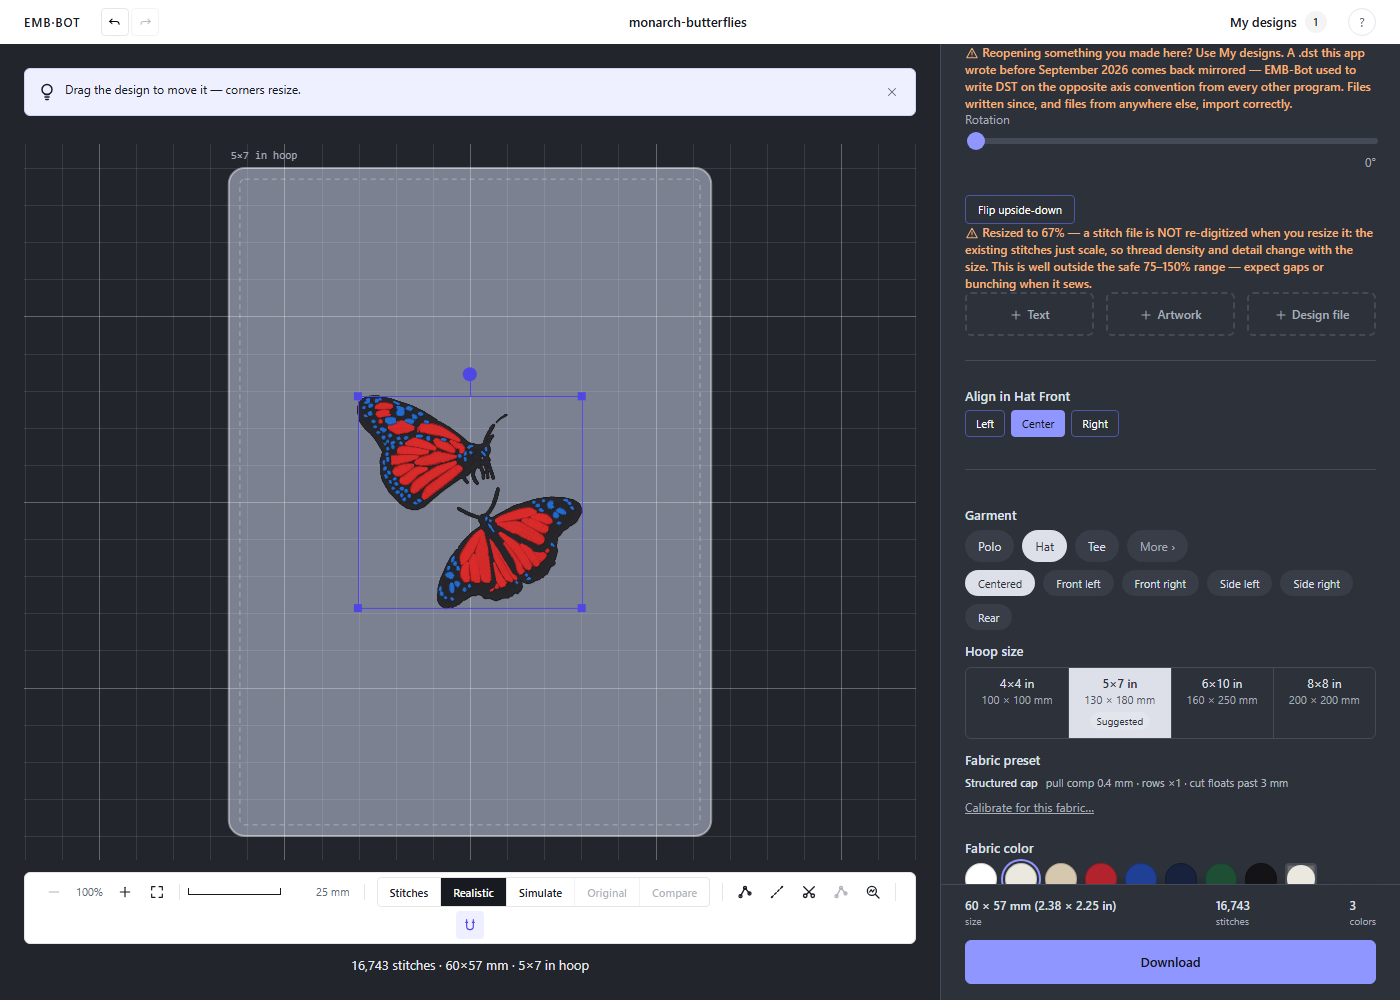
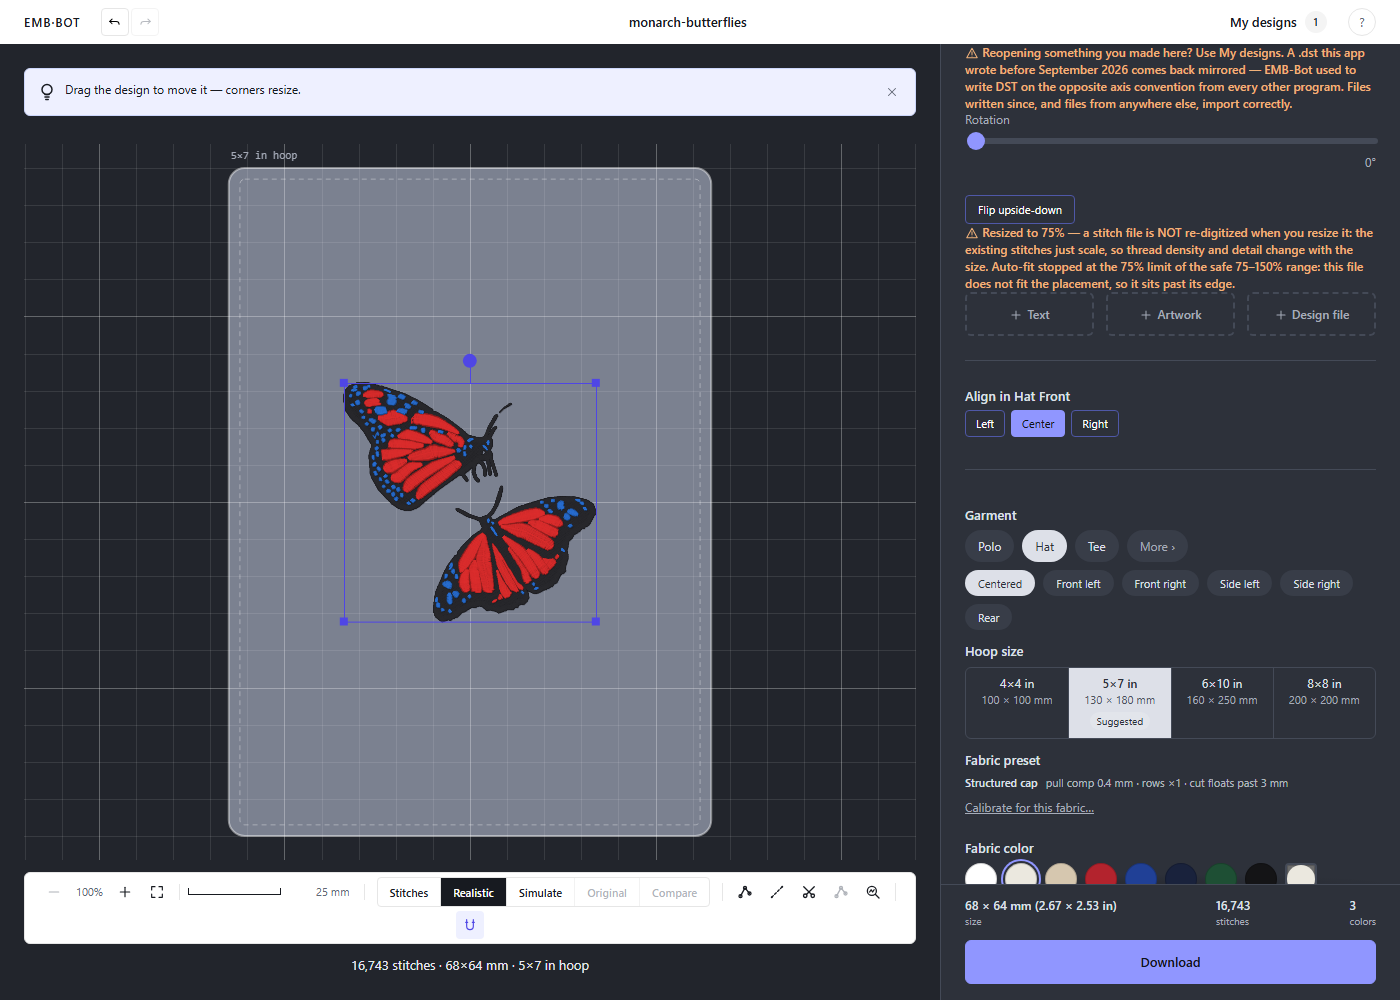
Auto-fit stops a stitch file at the 75% edge and says so (Kent 2026-11-14)
autoScaleRange in buildImportedDesign, passed only for stitch files; typed width, digitized art and lettering untouched. Panel adds one line to the existing resize note.

diff --git a/app/src/lib/generate.autofitRange.spec.js b/app/src/lib/generate.autofitRange.spec.js
@@ -1,0 +1,64 @@
+// Garment-switch auto-fit of a pre-digitized stitch file stops at the safe
+// range's edge (Kent 2026-11-14, "Stop at 75%, say so"): the monarch on Hat is
+// 68x65 mm, not 60x57. Typed widths, digitized art and lettering are untouched.
+import { test, expect, beforeAll } from "vitest";
+import { createRequire } from "node:module";
+let dst;
+beforeAll(() => {
+  const require = createRequire(import.meta.url);
+  globalThis.window = globalThis;
+  for (const f of ["units", "garments", "fabrics", "fill", "geometry", "quantize", "flatten", "satin", "satinplay", "satinfont", "fontbin", "dst", "dstimport", "exp", "fonts", "digitize"]) require("../../../src/" + f + ".js");
+  dst = require("../../../src/dst.js");
+});
+
+// A two-point diagonal: a bbox of wMm x hMm, nothing else.
+function fileOf(wMm, hMm) {
+  const w = Math.round((wMm * 10) / 2), h = Math.round((hMm * 10) / 2);
+  const bytes = dst.encodeDST({
+    stitches: [{ x: -w, y: -h, type: "stitch" }, { x: w, y: h, type: "stitch" }, { x: w, y: h, type: "end" }],
+    colors: [{ r: 0, g: 0, b: 0 }],
+  });
+  return Buffer.from(bytes).toString("base64");
+}
+const designEl = (wMm, hMm, o = {}) => ({ id: "d1", type: "design", name: "x.dst", dstBase64: fileOf(wMm, hMm), sizeMm: null, rotationDeg: 0, offsetXMm: 0, offsetYMm: 0, blockColors: {}, ...o });
+
+async function hat() {
+  const { EMB } = await import("./emb.js");
+  const { generateElement } = await import("./generate.js");
+  return { generateElement, garment: EMB.getGarment("hat_front") };
+}
+
+test("a stitch file the Hat box would shrink to 66% lands at 75%, past the box", async () => {
+  const { generateElement, garment } = await hat();
+  const d = generateElement(designEl(91, 86), garment, {});
+  expect(d._debug.scale).toBe(0.75);
+  expect(d.widthMM).toBeCloseTo(68.25, 1);
+});
+
+test("a stitch file that lands at 90% is unchanged", async () => {
+  const { generateElement, garment } = await hat();
+  const noRange = (await import("./emb.js")).EMB;
+  const el = designEl(60, 63);
+  const d = generateElement(el, garment, {});
+  const plain = noRange.buildImportedDesign(noRange.decodeDSTStandard(Uint8Array.from(Buffer.from(el.dstBase64, "base64"))), { garment });
+  expect(d._debug.scale).toBeGreaterThan(0.75);
+  expect(d._debug.scale).toBeLessThan(1);
+  expect(d._debug.scale).toBe(plain._debug.scale);
+});
+
+test("a hand-typed 42% still applies", async () => {
+  const { generateElement, garment } = await hat();
+  const d = generateElement(designEl(91, 86, { sizeMm: 38.22 }), garment, {});
+  expect(d._debug.scale).toBeCloseTo(0.42, 2);
+});
+
+test("digitized art still fits the box (no 75% floor)", async () => {
+  const { generateElement, garment } = await hat();
+  const result = {
+    stitches: [{ x: -455, y: -430, type: "stitch" }, { x: 455, y: 430, type: "stitch" }, { x: 455, y: 430, type: "end" }],
+    colors: [{ r: 0, g: 0, b: 0 }], widthMM: 91, heightMM: 86, stitchCount: 2, colorCount: 1,
+  };
+  const d = generateElement({ id: "g1", type: "digitized", result, sizeMm: null, rotationDeg: 0, offsetXMm: 0, offsetYMm: 0 }, garment, {});
+  expect(d._debug.scale).toBeLessThan(0.75);
+  expect(d.heightMM).toBeLessThanOrEqual(garment.heightIn * 25.4 + 1e-6);
+});

diff --git a/test/dstimport.test.js b/test/dstimport.test.js
@@ -595,3 +595,47 @@ test("a decoded DST carries no index, and the import invents none", () => {
   const out = buildImportedDesign(decoded, { garment: GARMENT });
   assert.ok(!("runs" in out), "the import must not invent them either");
 });
+
+// ---- autoScaleRange (Kent 2026-11-14, "Stop at 75%, say so") -----------------
+// Garment-switch auto-fit of a stitch file may not shrink it under the safe
+// range; the file then overflows the box. A typed width and callers that pass
+// no range (digitized art, outline lettering) are untouched.
+function box(wMm, hMm) {
+  const w = Math.round((wMm * 10) / 2), h = Math.round((hMm * 10) / 2);
+  return decodeDST(dst.encodeDST({
+    stitches: [
+      { x: -w, y: -h, type: "stitch" }, { x: w, y: h, type: "stitch" }, { x: w, y: h, type: "end" },
+    ],
+    colors: [{ r: 0, g: 0, b: 0 }],
+  }));
+}
+const RANGE = [0.75, 1.5];
+
+test("autoScaleRange: a file the box would shrink to 63% lands at 75% and overflows the box", () => {
+  const d = box(80, 160); // 101.6 / 160 = 0.635
+  assert.ok(buildImportedDesign(d, { garment: GARMENT })._debug.scale < 0.64);
+  const design = buildImportedDesign(d, { garment: GARMENT, autoScaleRange: RANGE });
+  assert.strictEqual(design._debug.scale, 0.75);
+  assert.ok(design.heightMM > 101.6);
+});
+
+test("autoScaleRange: a file the box shrinks to 78% (inside the range) is unchanged", () => {
+  const d = box(80, 130); // 101.6 / 130 = 0.78
+  const a = buildImportedDesign(d, { garment: GARMENT });
+  const b = buildImportedDesign(d, { garment: GARMENT, autoScaleRange: RANGE });
+  assert.strictEqual(b._debug.scale, a._debug.scale);
+  assert.ok(b._debug.scale > 0.75 && b._debug.scale < 1);
+});
+
+test("autoScaleRange: a file that fits stays at native size", () => {
+  assert.strictEqual(buildImportedDesign(box(60, 60), { garment: GARMENT, autoScaleRange: RANGE })._debug.scale, 1);
+});
+
+test("autoScaleRange: the upper edge is honored (auto-fit never scales a stitch file past it)", () => {
+  assert.strictEqual(buildImportedDesign(box(60, 60), { garment: GARMENT, autoScaleRange: [0.5, 0.9] })._debug.scale, 0.9);
+});
+
+test("autoScaleRange: a TYPED width is never clamped to the range", () => {
+  const design = buildImportedDesign(box(80, 80), { garment: GARMENT, targetWidthMm: 33.6, autoScaleRange: RANGE });
+  assert.ok(Math.abs(design._debug.scale - 0.42) < 1e-9);
+});

diff --git a/app/src/ui/DesignPanel.svelte b/app/src/ui/DesignPanel.svelte
@@ -8,6 +8,7 @@
   import Advanced from "./Advanced.svelte";
   import { rotationPatch } from "../lib/hoop.js";
   import { rotatedWidth } from "../lib/staleness.js";
+  import { STITCH_FILE_AUTO_RANGE } from "../lib/generate.js";
 
   // Editor panel for an imported pre-digitized design element (.dst file).
   // The file's raw bytes live on the element as base64 (see project.js's
@@ -177,7 +178,13 @@
   // past the old 75–150% band. The band still marks the "expect visible
   // problems" escalation.
   $: resized = Math.abs(scaleFactor - 1) > 0.02;
-  $: scaleWarnHard = scaleFactor < 0.75 || scaleFactor > 1.5;
+  // Auto-fit stops a stitch file at the range's edge (generate.js
+  // STITCH_FILE_AUTO_RANGE) instead of shrinking it to the placement: with no
+  // typed width, a factor sitting on an edge means the file did not fit.
+  // 1% slack: designDims is the stitch bbox, rounded to 0.1 mm.
+  $: autoStopEdge = element.sizeMm ? null
+    : STITCH_FILE_AUTO_RANGE.find((e) => Math.abs(scaleFactor - e) < 0.01 && e !== 1) ?? null;
+  $: scaleWarnHard = autoStopEdge == null && (scaleFactor < 0.75 || scaleFactor > 1.5);
   // `rotatedWidth` is staleness.js's, the engine's own measure of the turned
   // stitches (review follow-up, 2026-11-13). This panel kept a turned-
   // RECTANGLE copy, which read a round design turned 45 degrees as 41% wider
@@ -268,7 +275,9 @@
         <span class="dp-warn-icon"><Icon name="warning" size={14} /></span> Resized to {(scaleFactor * 100).toFixed(0)}% — a stitch file is NOT re-digitized when
         you resize it: the existing stitches just scale, so thread density and detail change
         with the size.{#if scaleWarnHard}&nbsp;This is well outside the safe 75–150% range —
-        expect gaps or bunching when it sews.{:else}&nbsp;Small changes are usually fine; stay
+        expect gaps or bunching when it sews.{:else if autoStopEdge != null}&nbsp;Auto-fit stopped
+        at the {(autoStopEdge * 100).toFixed(0)}% limit of the safe 75–150% range: this file does
+        not fit the placement, so it sits past its edge.{:else}&nbsp;Small changes are usually fine; stay
         inside 75–150% of the original.{/if}
       {:else}
         Pre-digitized file: it sews exactly as digitized. Resizing scales the stitches

diff --git a/src/dstimport.js b/src/dstimport.js
@@ -258,6 +258,8 @@
   //                  the dimensions the user actually sees — a landscape
   //                  design rotated 90 clamps by its new (portrait) extents.
   //   offsetXMm/offsetYMm  placement translation, DST-space (+y up), mm.
+  //   autoScaleRange [min, max] scale an AUTO-fit (no targetWidthMm) result may
+  //                  take, e.g. [0.75, 1.5]; absent = the box clamp alone.
   //   blockColors    { [blockIndex]: [r,g,b] } overrides; missing blocks get
   //                  IMPORT_BLOCK_COLORS defaults.
   function buildImportedDesign(decoded, opts) {
@@ -322,6 +324,18 @@
     targetWmm = Math.min(targetWmm, hoopWmm);
     let sc = targetWmm / nativeWmm;
     if (nativeHmm * sc > hoopHmm) sc = hoopHmm / nativeHmm; // height clamp
+    // AUTO-fit only (no typed width) of a pre-digitized stitch file: the box
+    // clamp above must not push it outside the scale range a stitch file
+    // survives. Stitches only scale, so under 75% the density climbs toward
+    // gaps and bunching. The file then stops at the edge and overflows the
+    // box (the hoop note says so) instead of shrinking to fit (Kent,
+    // 2026-11-14: "Stop at 75%, say so"). A TYPED width is the customer's own
+    // number and is never touched; digitized art and outline lettering do not
+    // pass `autoScaleRange` and keep fitting the box.
+    const range = o.autoScaleRange;
+    if (!typedW && Array.isArray(range) && range.length === 2) {
+      sc = Math.min(range[1], Math.max(range[0], sc));
+    }
 
     const offXu = Math.round((o.offsetXMm || 0) * DST_UNITS_PER_MM);
     const offYu = Math.round((o.offsetYMm || 0) * DST_UNITS_PER_MM);

diff --git a/app/src/ui/DesignPanel.autofit.spec.js b/app/src/ui/DesignPanel.autofit.spec.js
@@ -66,3 +66,20 @@ test("a typed size still wins over designDims", () => {
   const { container } = render(DesignPanel, { props: { element: el({ sizeMm: 38.22 }), designDims: dims(38, 36) } });
   expect(container.textContent).toMatch(/Resized to 42%/);
 });
+
+// Kent 2026-11-14, "Stop at 75%, say so": auto-fit stops at the range edge, so
+// the monarch on Hat is 68x65 and the note says the file does not fit.
+test("auto-fit stopped at the 75% limit: one short line says the file does not fit the placement", () => {
+  const { container } = render(DesignPanel, { props: { element: el(), designDims: dims(68.2, 64.5) } });
+  expect(container.textContent).toMatch(/Resized to 75%/);
+  expect(container.textContent).toMatch(/Auto-fit stopped\s+at the 75% limit/);
+  expect(container.textContent).toMatch(/does\s+not fit the placement/);
+  expect(container.textContent).not.toMatch(/well outside/);
+  expect(container.textContent).toMatch(/68×65 mm \(file: 91×86\)/);
+});
+
+test("a TYPED 75% is just a resize: no 'auto-fit stopped' line", () => {
+  const { container } = render(DesignPanel, { props: { element: el({ sizeMm: 68.25 }), designDims: dims(68.2, 64.5) } });
+  expect(container.textContent).toMatch(/Resized to 75%/);
+  expect(container.textContent).not.toMatch(/Auto-fit stopped/);
+});

diff --git a/app/src/lib/generate.js b/app/src/lib/generate.js
@@ -23,6 +23,12 @@ import { isOutlineKey, outlineTargetWidthMm } from "./outlineFonts.js";
 // that never changes. Keyed by the base64 string itself: a re-import is a
 // new string = new entry, and the tiny cap just stops a long session from
 // pinning every file ever uploaded.
+// The scale range AUTO-fit may give a pre-digitized stitch file: the Design
+// panel's "safe 75-150%" band (Kent 2026-11-14, "Stop at 75%, say so"). Past an
+// edge the file stops there and overflows the placement box rather than
+// scaling its stitches further. A typed width is not bound by it.
+export const STITCH_FILE_AUTO_RANGE = [0.75, 1.5];
+
 const dstCache = new Map();
 const DST_CACHE_MAX = 8;
 
@@ -99,6 +105,8 @@ export function generateElement(element, garment, runtime) {
     return EMB.buildImportedDesign(decoded, {
       garment,
       targetWidthMm: element.sizeMm || undefined,
+      // a stitch file only scales: auto-fit stops at the safe range's edge
+      autoScaleRange: STITCH_FILE_AUTO_RANGE,
       rotationDeg: element.rotationDeg || 0,
       offsetXMm: element.offsetXMm || 0,
       offsetYMm: element.offsetYMm || 0,

diff --git a/app/e2e/design-garment-autofit-note.spec.js b/app/e2e/design-garment-autofit-note.spec.js
@@ -25,8 +25,13 @@ test("switching to Hat shrinks a stitch file and the panel says so; Undo restore
 
   await pickGarment(page, "Hat Front");
 
-  await expect(note).toContainText(/Resized to \d+%/, { timeout: 30_000 });
-  await expect(note).toContainText("well outside the safe 75–150% range");
+  // Kent 2026-11-14 ("Stop at 75%, say so"): auto-fit stops at the range edge,
+  // 91x86 -> 68x64, and the note says the file does not fit the placement.
+  await expect(note).toContainText("Resized to 75%", { timeout: 30_000 });
+  await expect(note).toContainText("Auto-fit stopped at the 75% limit");
+  await expect(note).toContainText("does not fit the placement");
+  await expect(note).not.toContainText("well outside");
+  await expect(page.locator("span.stats").first()).toContainText("68×64 mm");
   await expect(note).not.toContainText("sews exactly as digitized");
   // the file's size line names the size on the canvas, and the native size
   const canvas = (await page.locator("span.stats").first().textContent()) || "";
